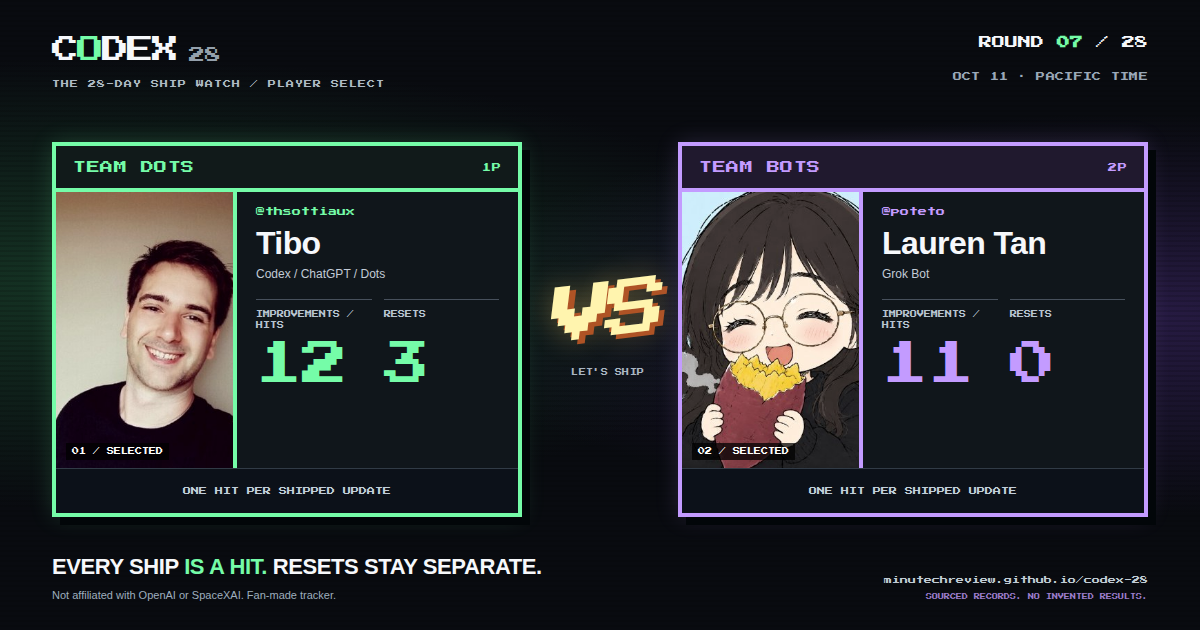
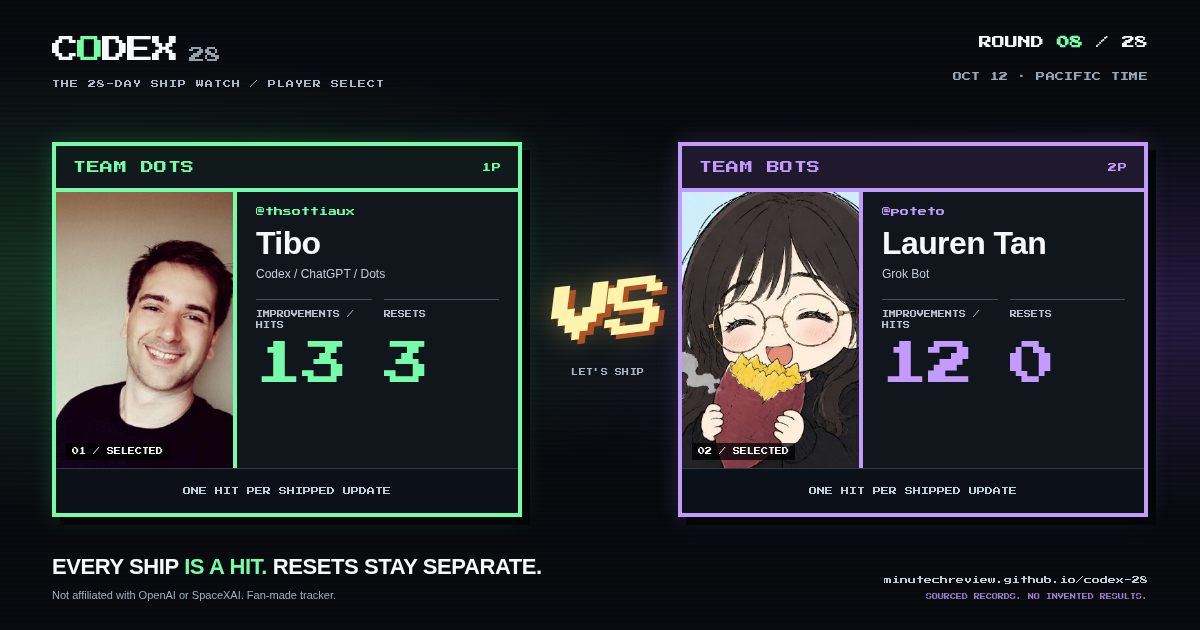
Publish Day 7: Tibo 7.2 + Grok Bot 0.70.2 (13 Dots vs 12 Bots)

diff --git a/index.html b/index.html
@@ -3,7 +3,7 @@
 <head>
 <meta charset="utf-8"><meta name="viewport" content="width=device-width, initial-scale=1"><meta name="theme-color" content="#090b10">
 <meta name="description" content="Team Dots versus Team Bots. A 28-round fan tracker of sourced improvements and resets.">
-<meta property="og:title" content="CODEX 28 — TEAM DOTS VS TEAM BOTS"><meta property="og:description" content="Team Dots: 12 confirmed hits, 3 resets, 21 pending days. Team Bots: 11 confirmed hits, 0 resets, 0 pending days."><meta property="og:type" content="website"><meta property="og:url" content="https://minutechreview.github.io/codex-28/"><meta property="og:image" content="https://minutechreview.github.io/codex-28/assets/versus-share.png"><meta property="og:image:width" content="1200"><meta property="og:image:height" content="630"><meta property="og:image:alt" content="Original arcade VERSUS card with portraits of Tibo and Lauren Tan. Team Dots: 12 confirmed hits, 3 resets, 21 pending days. Team Bots: 11 confirmed hits, 0 resets, 0 pending days."><meta name="twitter:card" content="summary_large_image">
+<meta property="og:title" content="CODEX 28 — TEAM DOTS VS TEAM BOTS"><meta property="og:description" content="Team Dots: 13 confirmed hits, 3 resets, 21 pending days. Team Bots: 12 confirmed hits, 0 resets, 0 pending days."><meta property="og:type" content="website"><meta property="og:url" content="https://minutechreview.github.io/codex-28/"><meta property="og:image" content="https://minutechreview.github.io/codex-28/assets/versus-share.png"><meta property="og:image:width" content="1200"><meta property="og:image:height" content="630"><meta property="og:image:alt" content="Original arcade VERSUS card with portraits of Tibo and Lauren Tan. Team Dots: 13 confirmed hits, 3 resets, 21 pending days. Team Bots: 12 confirmed hits, 0 resets, 0 pending days."><meta name="twitter:card" content="summary_large_image">
 <title>CODEX 28 — DOTS VS BOTS</title><link rel="icon" href="./assets/versus-favicon.svg" type="image/svg+xml"><link rel="stylesheet" href="./versus.css"><script type="module" src="./versus-app.js"></script>
 </head>
 <body>
